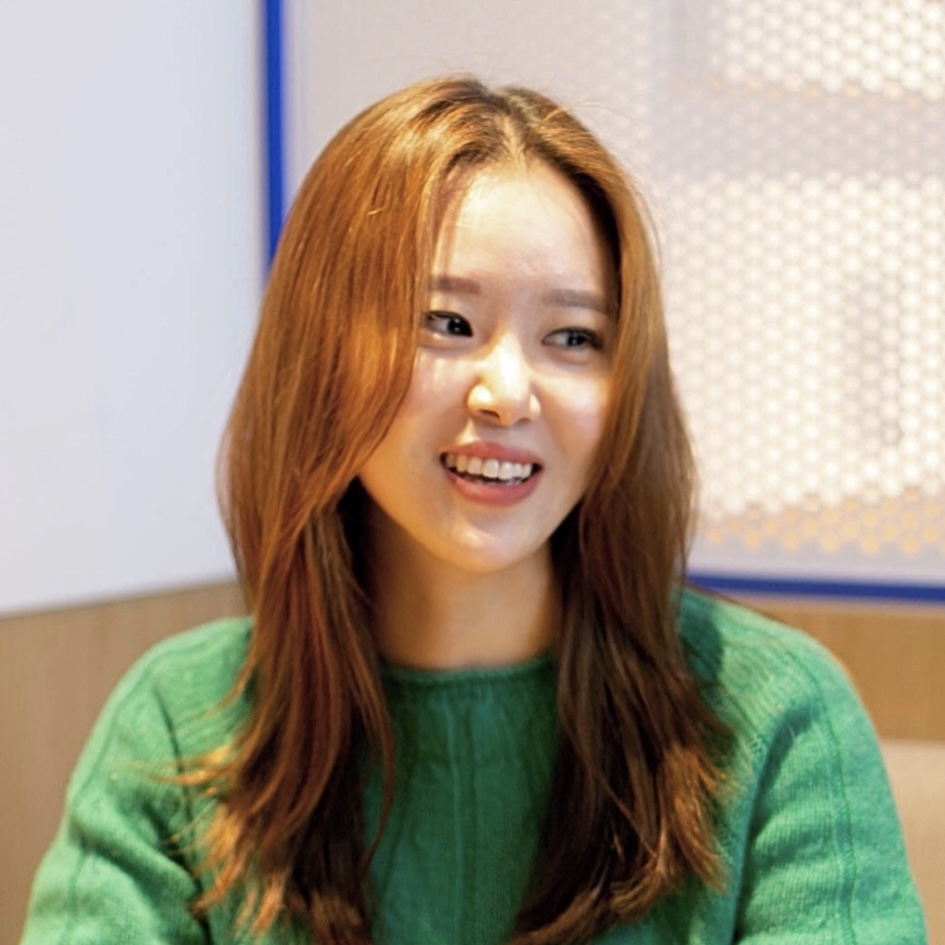
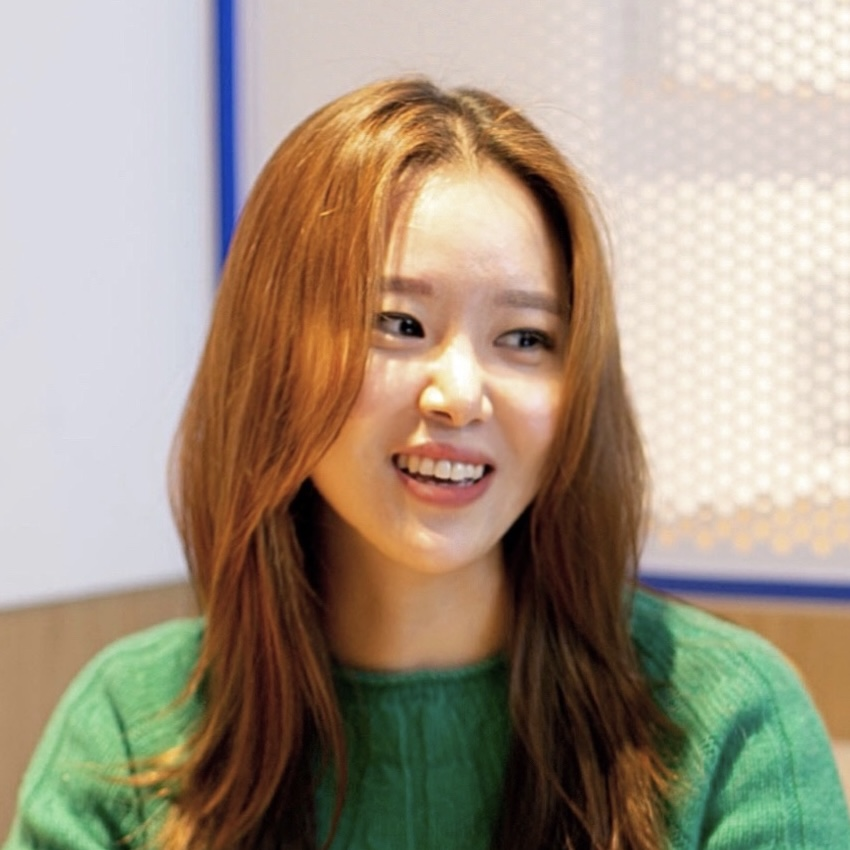
Fix: 이미지 변경 & 불필요한 코드 제거

diff --git a/src/components/Post/Author/Author.tsx b/src/components/Post/Author/Author.tsx
@@ -12,14 +12,14 @@ const Author = () => {
     <div className={styles.author}>
       <p className={styles.bio}>
         {author.bio}
-        <a
+        {/* <a
           className={styles.twitter}
           href={getContactHref("twitter", author.contacts.twitter)}
           rel="noopener noreferrer"
           target="_blank"
         >
           <strong>{author.name}</strong> on Twitter
-        </a>
+        </a> */}
       </p>
     </div>
   );

diff --git a/content/posts/2016-01-09---Perfecting-the-Art-of-Perfection/index.md b/content/posts/2016-01-09---Perfecting-the-Art-of-Perfection/index.md
@@ -2,7 +2,7 @@
 title: Perfecting the Art of Perfection
 date: "2016-09-01T23:46:37.121Z"
 template: "post"
-draft: true
+draft: false
 slug: "/posts/perfecting-the-art-of-perfection"
 category: "Design Inspiration"
 tags:
